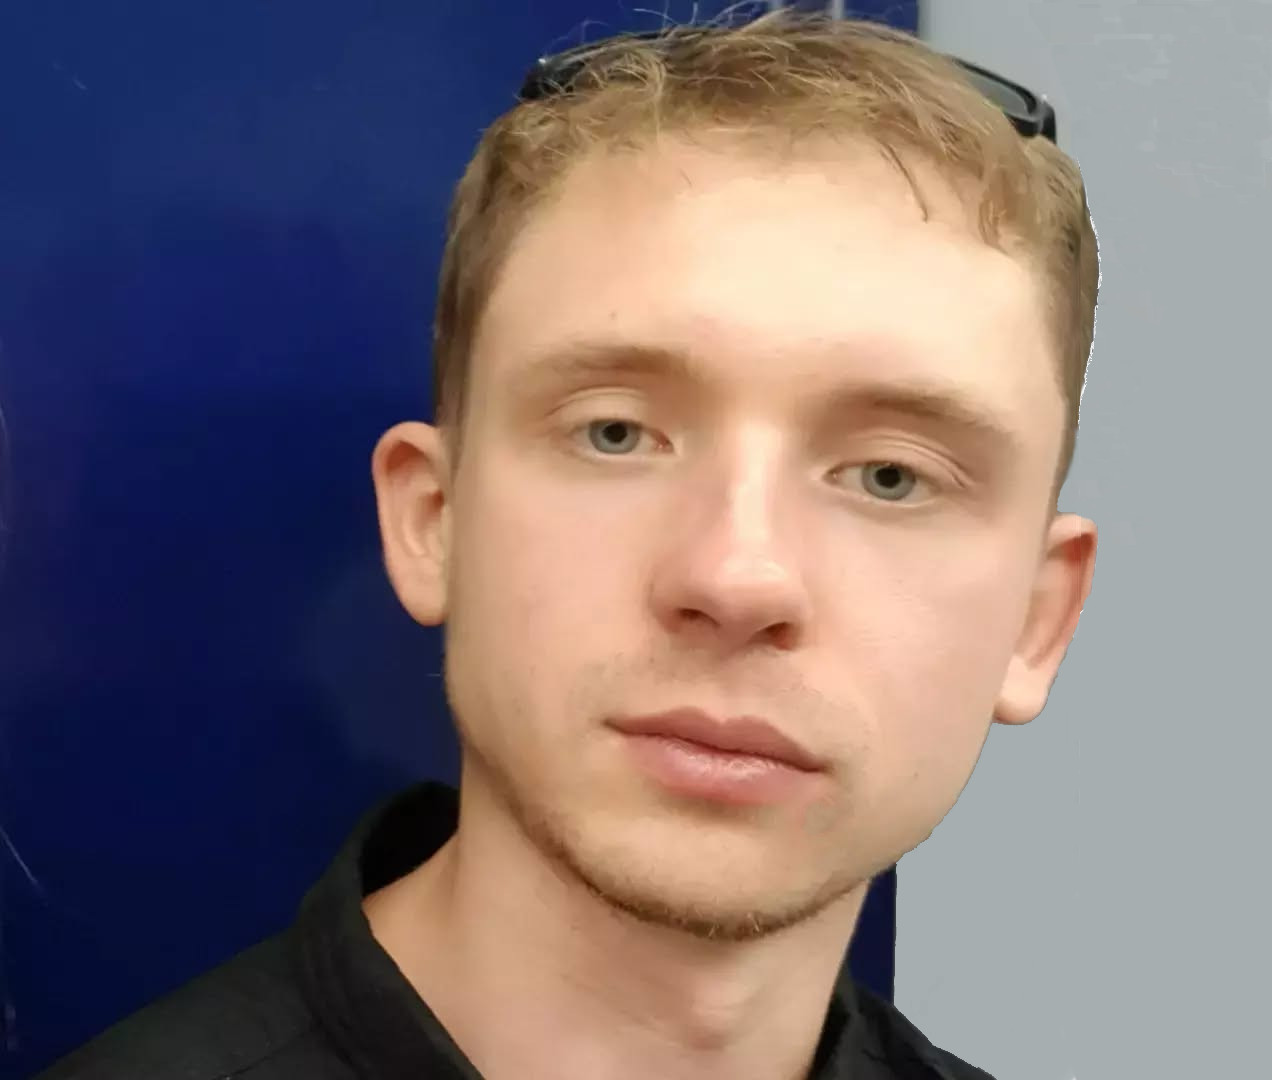
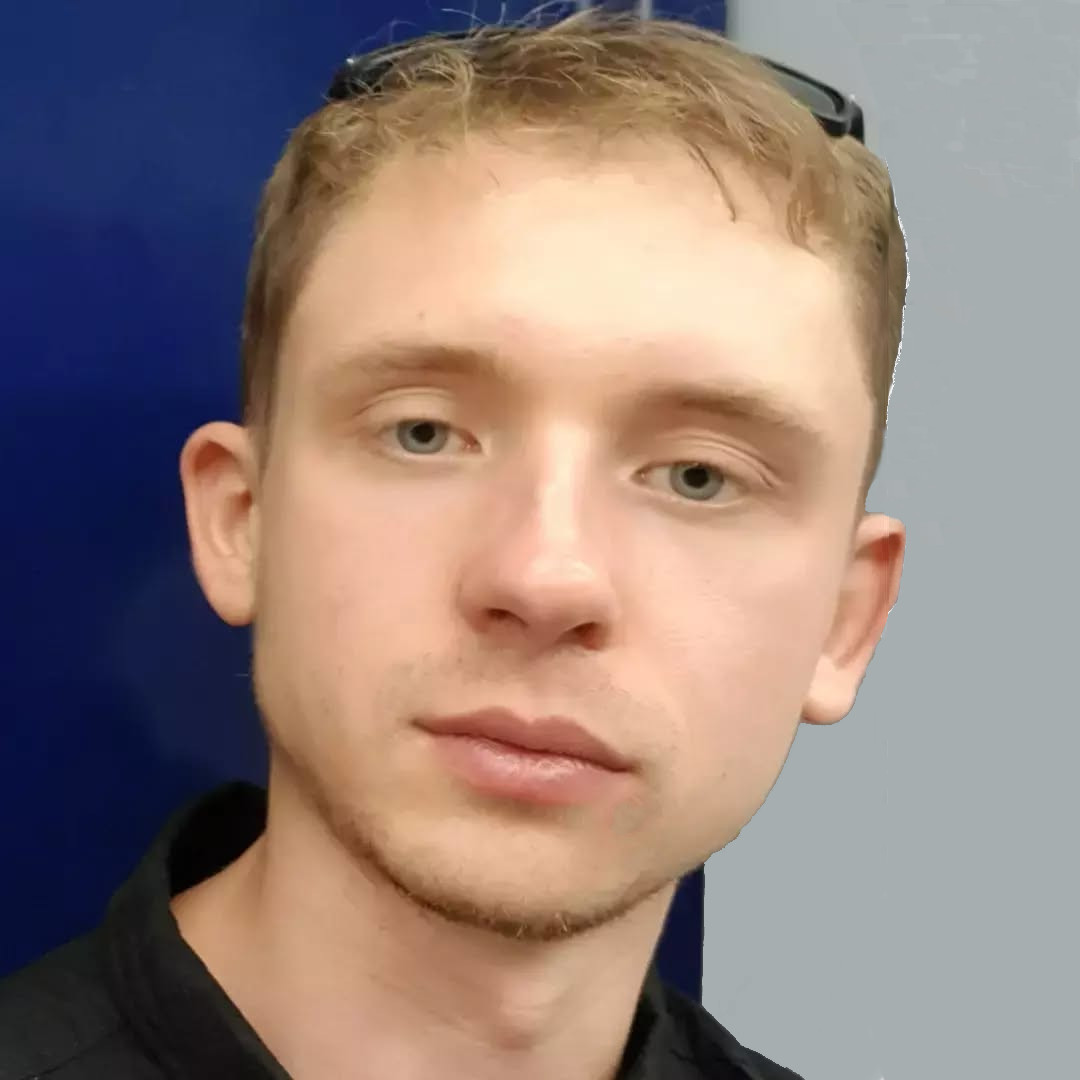
feat: update face

diff --git a/resume/build.css b/resume/build.css
@@ -336,11 +336,17 @@
   .inline-flex {
     display: inline-flex;
   }
+  .table {
+    display: table;
+  }
   .h-5 {
     height: calc(var(--spacing) * 5);
   }
   .h-6 {
     height: calc(var(--spacing) * 6);
+  }
+  .h-40 {
+    height: calc(var(--spacing) * 40);
   }
   .w-40 {
     width: calc(var(--spacing) * 40);
@@ -354,8 +360,14 @@
   .max-w-3xl {
     max-width: var(--container-3xl);
   }
+  .flex-grow {
+    flex-grow: 1;
+  }
   .grow {
     flex-grow: 1;
+  }
+  .border-collapse {
+    border-collapse: collapse;
   }
   .-translate-y-px {
     --tw-translate-y: -1px;
@@ -363,6 +375,9 @@
   }
   .transform {
     transform: var(--tw-rotate-x,) var(--tw-rotate-y,) var(--tw-rotate-z,) var(--tw-skew-x,) var(--tw-skew-y,);
+  }
+  .resize {
+    resize: both;
   }
   .list-inside {
     list-style-position: inside;
@@ -403,6 +418,10 @@
   .rounded-full {
     border-radius: calc(infinity * 1px);
   }
+  .border {
+    border-style: var(--tw-border-style);
+    border-width: 1px;
+  }
   .border-4 {
     border-style: var(--tw-border-style);
     border-width: 4px;
@@ -433,6 +452,9 @@
   }
   .object-cover {
     object-fit: cover;
+  }
+  .p-1 {
+    padding: calc(var(--spacing) * 1);
   }
   .p-1\.5 {
     padding: calc(var(--spacing) * 1.5);
@@ -527,6 +549,13 @@
   }
   .text-white {
     color: var(--color-white);
+  }
+  .underline {
+    text-decoration-line: underline;
+  }
+  .outline {
+    outline-style: var(--tw-outline-style);
+    outline-width: 1px;
   }
   .transition {
     transition-property: color, background-color, border-color, outline-color, text-decoration-color, fill, stroke, --tw-gradient-from, --tw-gradient-via, --tw-gradient-to, opacity, box-shadow, transform, translate, scale, rotate, filter, -webkit-backdrop-filter, backdrop-filter, display, content-visibility, overlay, pointer-events;
@@ -726,6 +755,11 @@ html {
   syntax: "*";
   inherits: false;
 }
+@property --tw-outline-style {
+  syntax: "*";
+  inherits: false;
+  initial-value: solid;
+}
 @property --tw-duration {
   syntax: "*";
   inherits: false;
@@ -814,6 +848,7 @@ html {
       --tw-leading: initial;
       --tw-font-weight: initial;
       --tw-tracking: initial;
+      --tw-outline-style: solid;
       --tw-duration: initial;
       --tw-ease: initial;
       --tw-shadow: 0 0 #0000;

diff --git a/resume/index.html b/resume/index.html
@@ -21,10 +21,10 @@
         <!-- Name-->
         <header class="inline-flex justify-between mb-2 w-full align-top border-b-4 border-gray-300">
           <section class="flex flex-col justify-evenly">
-            <h1 class="mb-0 text-5xl font-bold text-gray-700">Serhii Khoma</h1>
+            <h1 class="mb-0 text-5xl font-bold text-gray-700">Serhii Khoma 🇺🇦</h1>
             <h2 class="m-0 text-2xl font-semibold text-gray-700 leading-snugish">Full Stack Developer</h2>
             <h3 class="m-0 text-xl font-semibold text-gray-500 leading-snugish">Phnom Penh, Cambodia</h3>
-          </section><img class="w-40 m-2 rounded-full object-cover self-baseline" src="https://srghma.github.io/resume/myface.jpg" alt="Logo">
+          </section><img class="w-40 h-40 m-2 rounded-full object-cover self-baseline" src="./myface.jpg" alt="Logo">
         </header>
         <!-- Column-->
         <section class="col-gap-8 columns-2 print:h-letter-col-full col-fill-balance md:h-letter-col-full">
